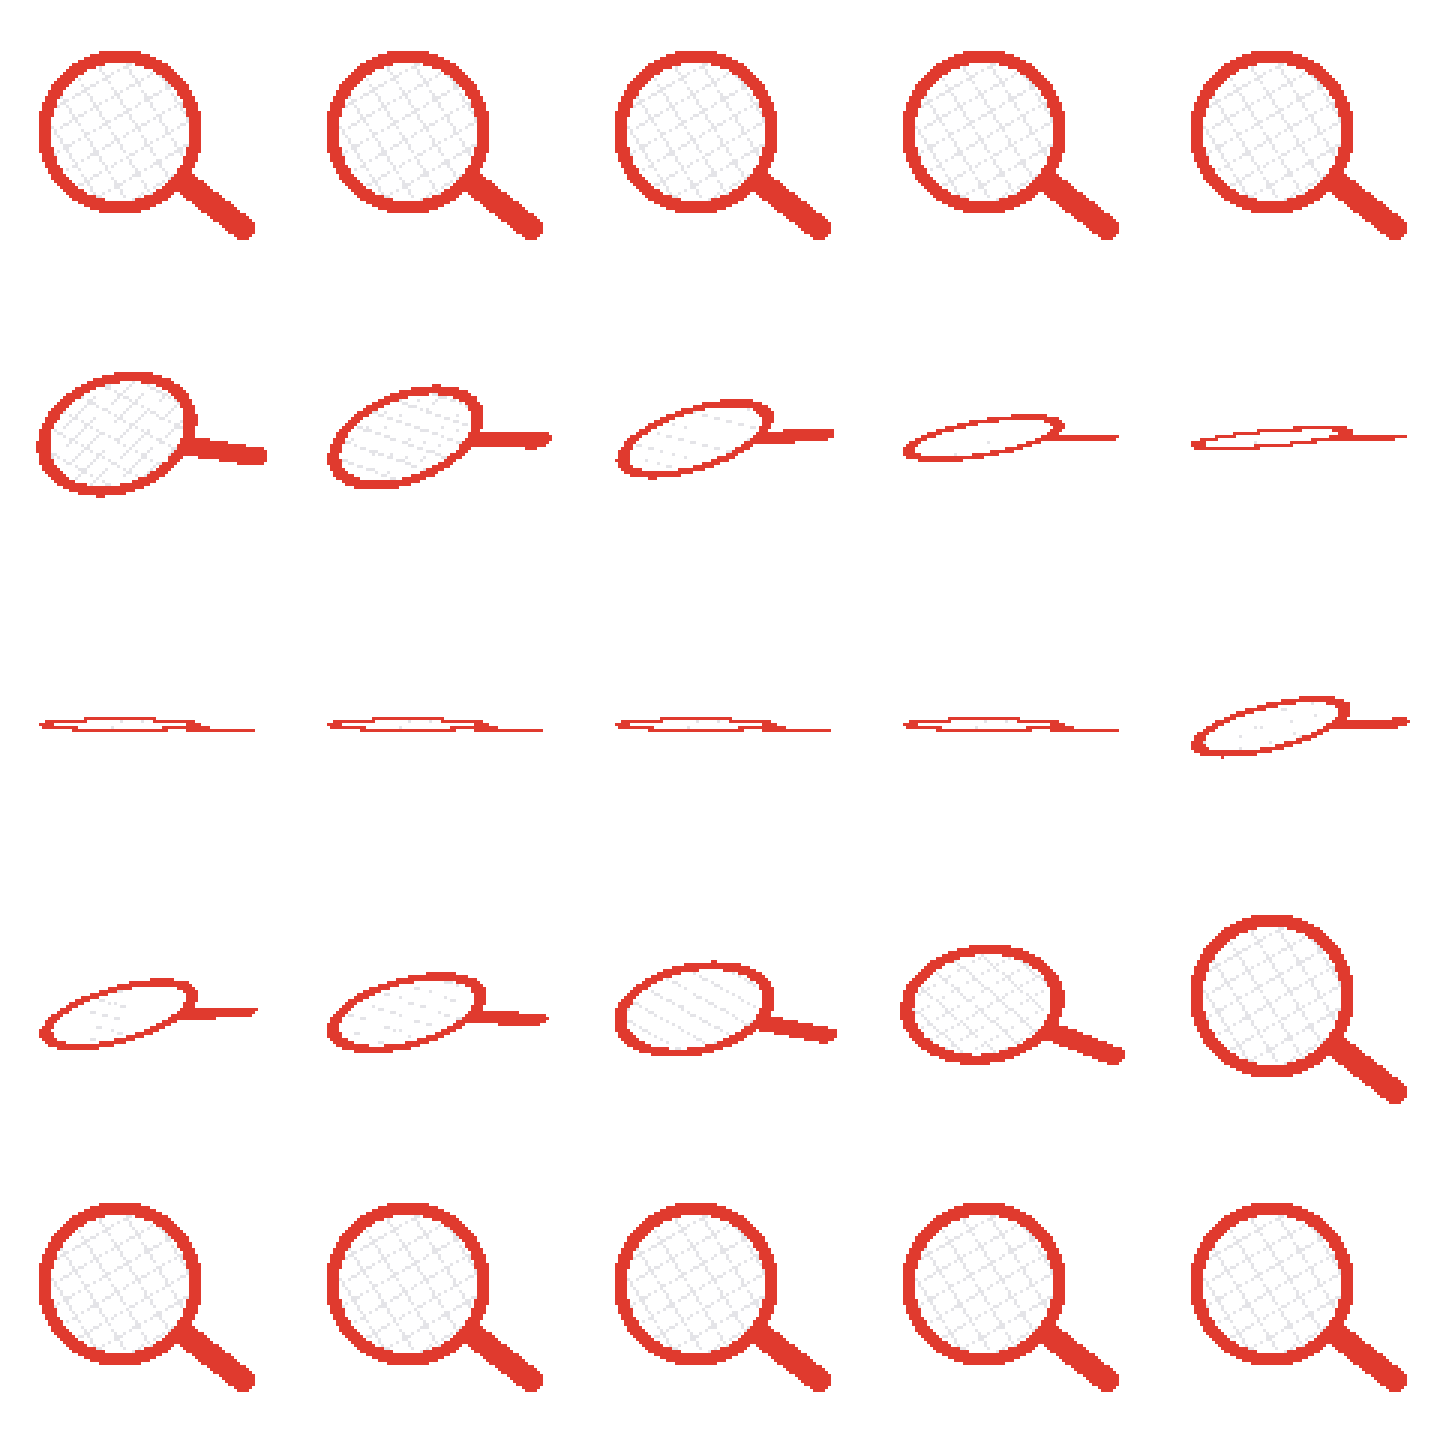
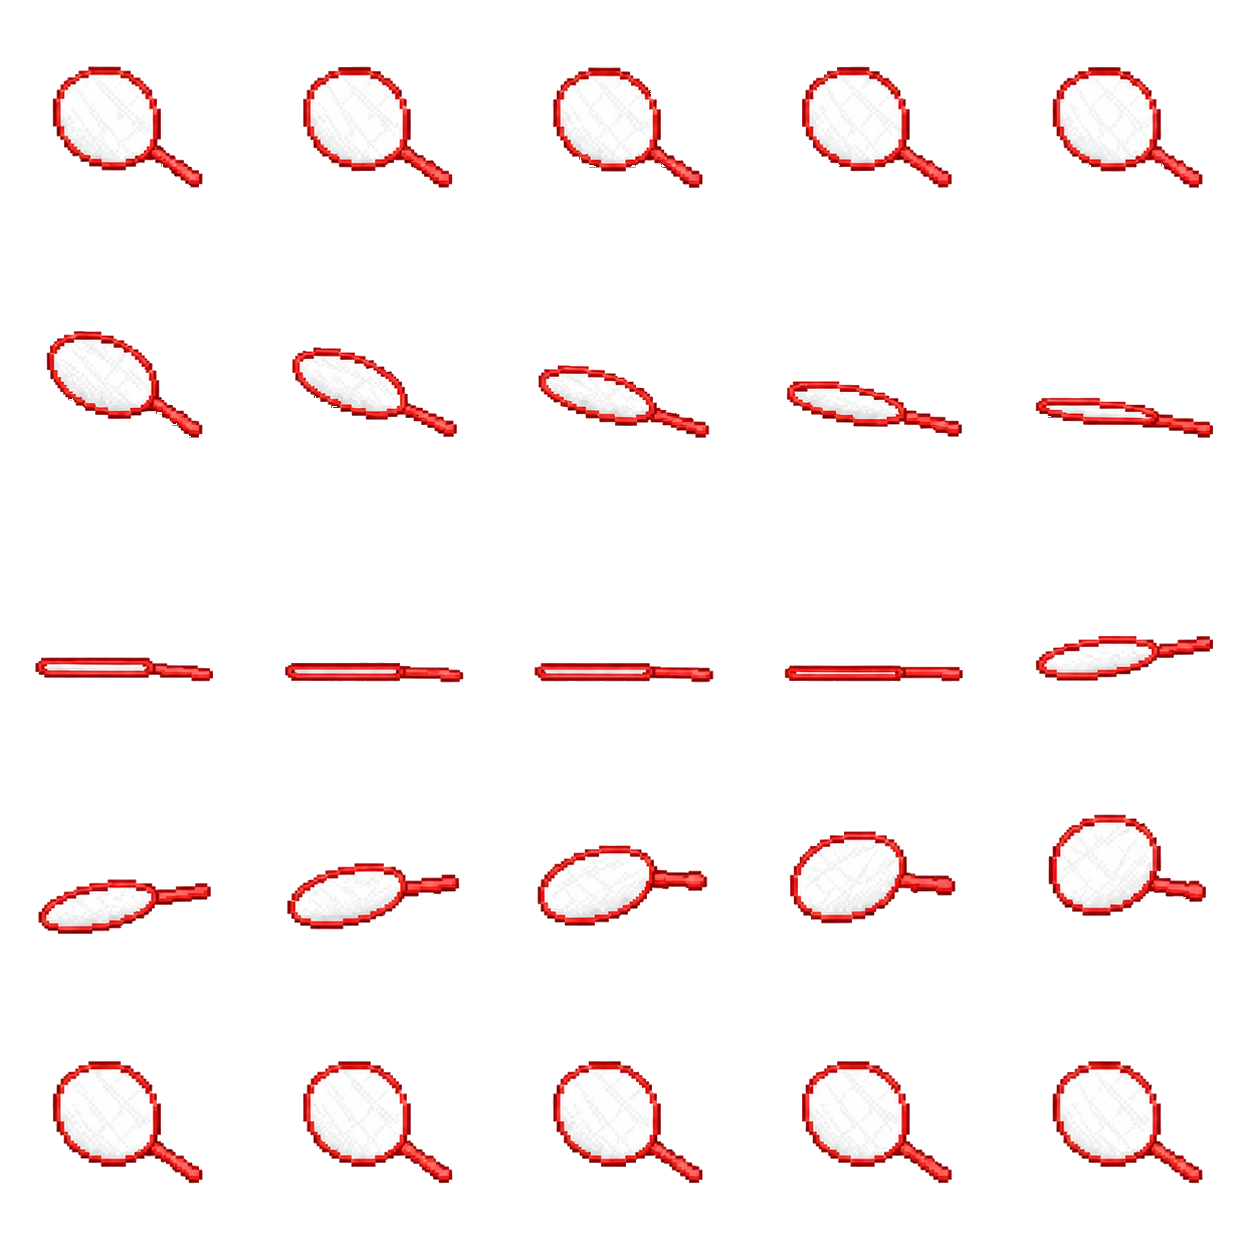
ポイ画像をユーザー提供のオリジナルに差し替え、Pages自動有効化を追加
- main履歴から復元した元画像を tools/original/sukui_poi.png として保存
- tools/process-poi.mjs: 背景・コマ番号・罫線をフラッドフィルで
  透過化して public/assets/poi.png を生成(依存ライブラリなし)
- configure-pages に enablement: true を追加し、リポジトリ設定で
  Pages未有効でもワークフローから有効化できるようにする

Claude-Session: https://claude.ai/code/session_01QMKRcRwsvvLWC2xY1qKQSc

diff --git a/docs/詳細設計書.md b/docs/詳細設計書.md
@@ -247,7 +247,7 @@ interface GameState {
 | 1コマのサイズ | 画像幅÷5 × 画像高さ÷5(正方形前提。コードでは実画像サイズから動的に算出) |
 | 再生 | すくい演出中に 1→25 を約1秒で再生(約25fps相当)。Canvas の `drawImage` のソース矩形指定でコマ切り出し |
 
-> **注**: `public/assets/poi.png` は `tools/generate-poi.mjs`(依存なしのNodeスクリプト)で生成した、提供画像の再現版をコミット済み。`node tools/generate-poi.mjs` で再生成できる。オリジナル画像で差し替える場合は同パスに上書きするだけでよい(5×5・25コマの構成を維持すること)。
+> **注**: `public/assets/poi.png` は、ユーザー提供のオリジナル画像 `tools/original/sukui_poi.png` から `tools/process-poi.mjs` で生成する(背景・コマ番号・罫線をフラッドフィルで透過化。赤い枠に囲まれた和紙の内側は残す)。再生成は `node tools/process-poi.mjs`。`tools/generate-poi.mjs` は画像を使わずポイを描画で再現する代替スクリプト(現在は未使用)。
 
 ### 5.2 効果音(Web Audio APIで合成、音声ファイルなし)
 